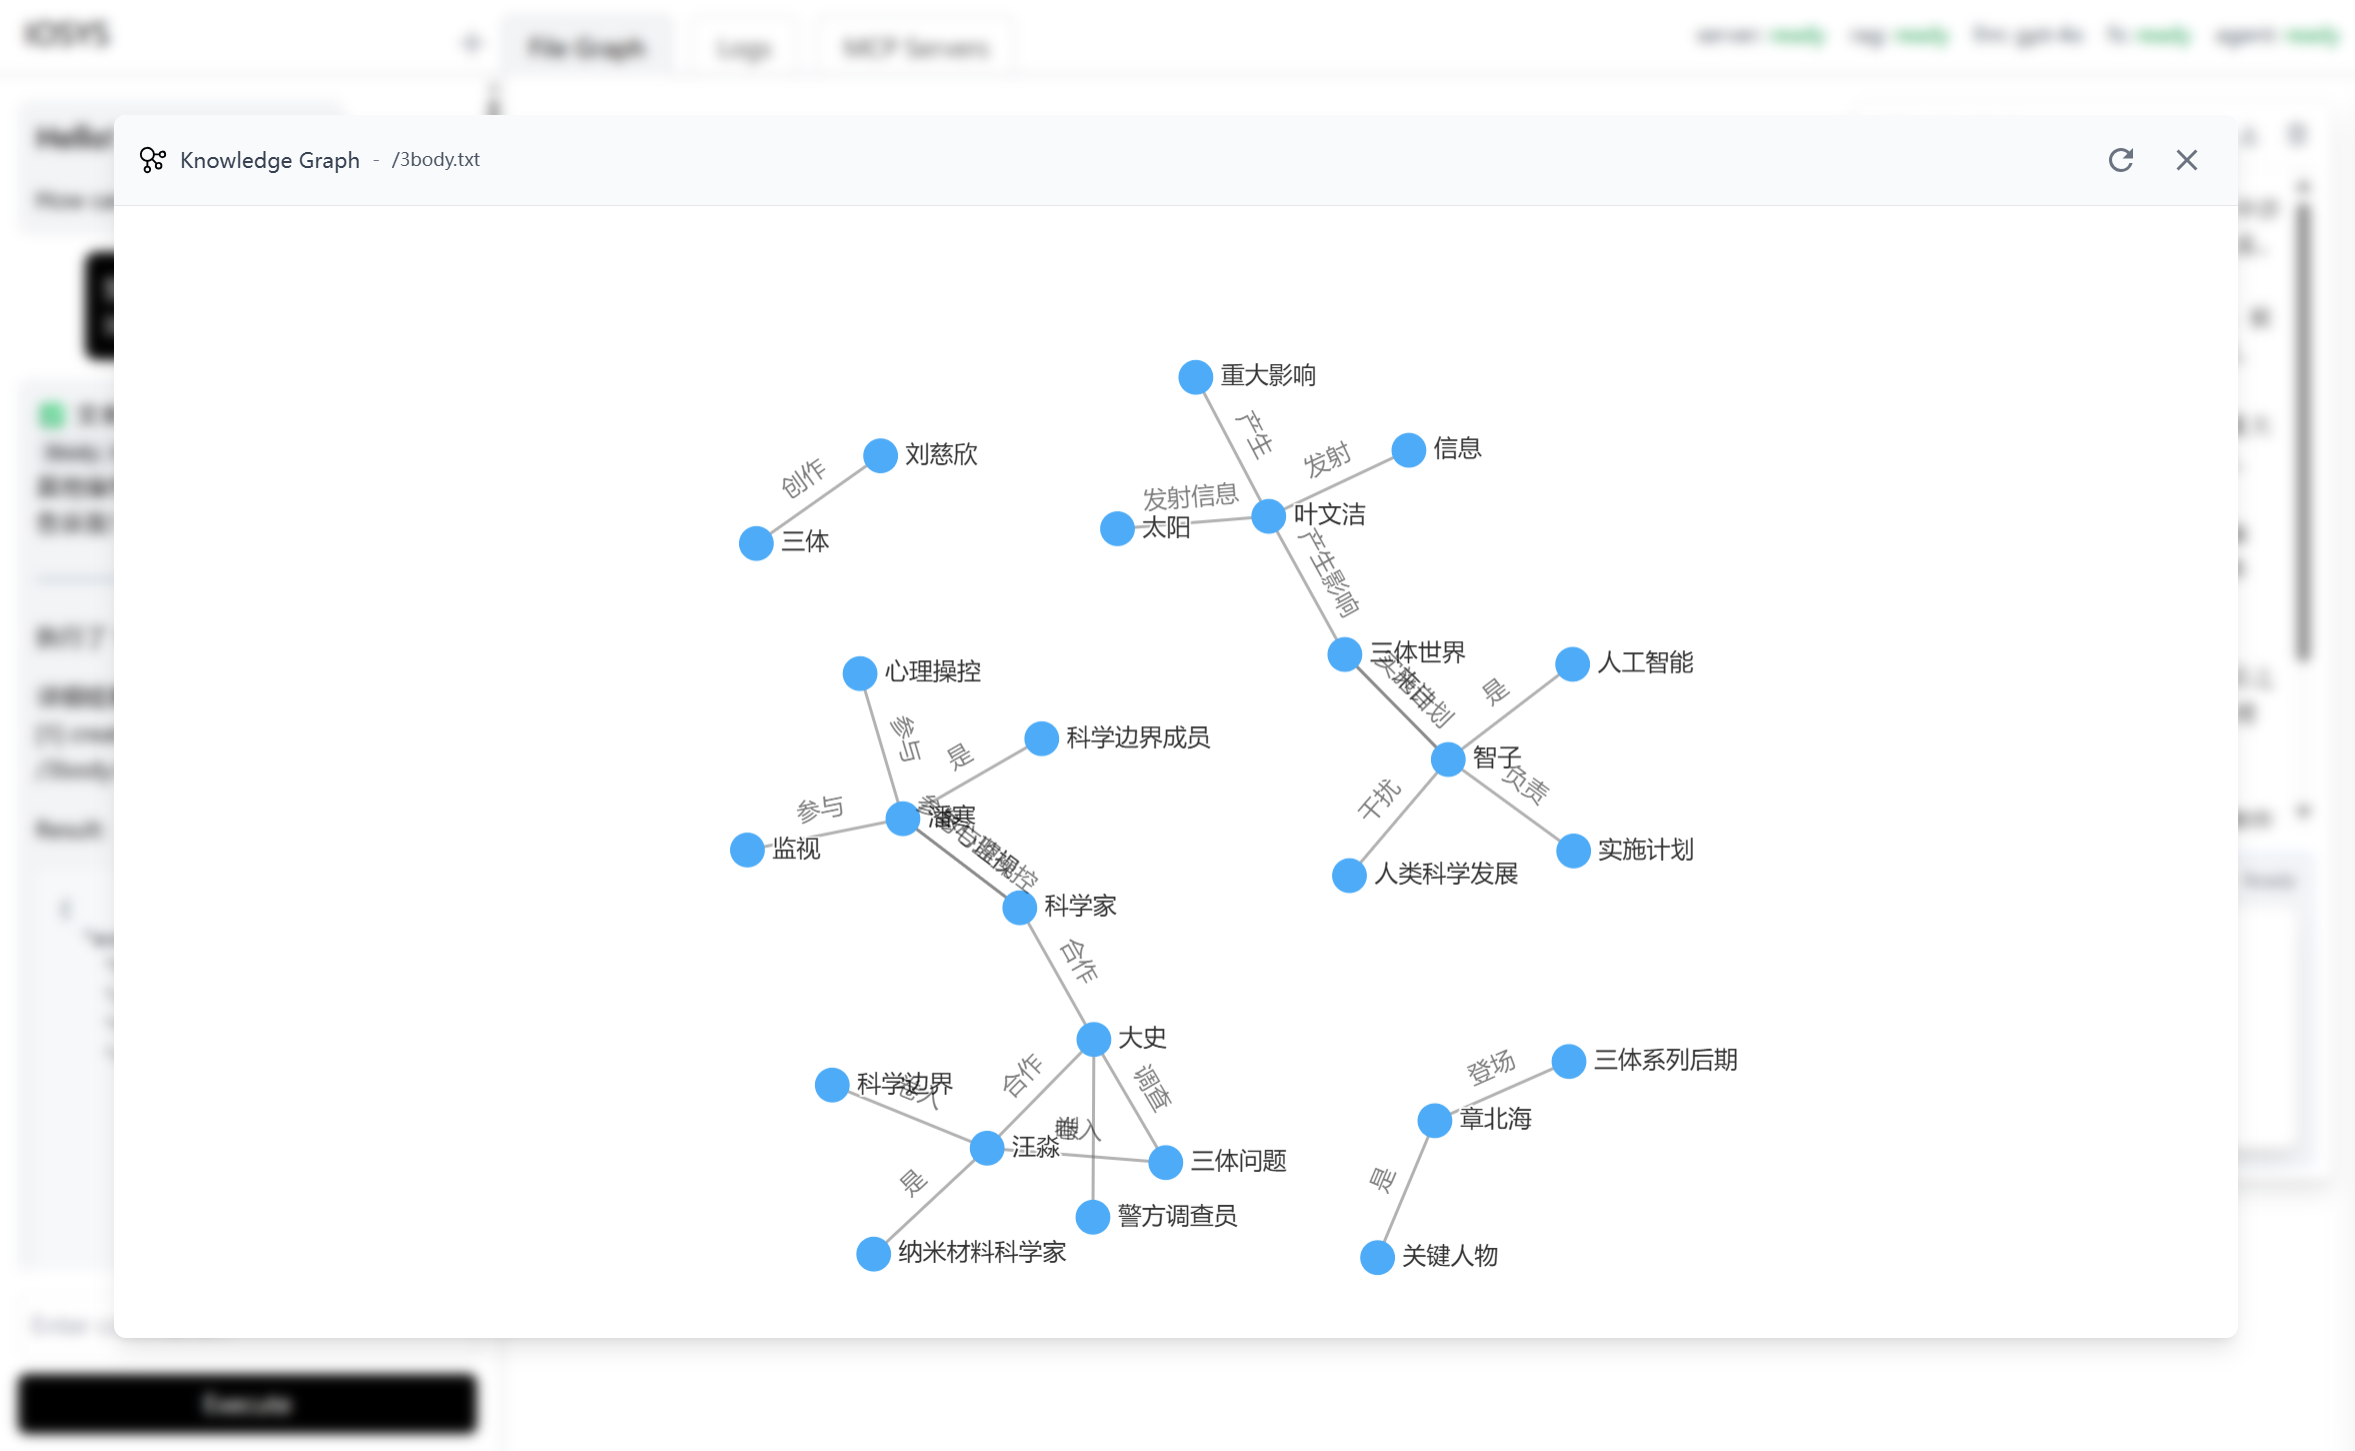
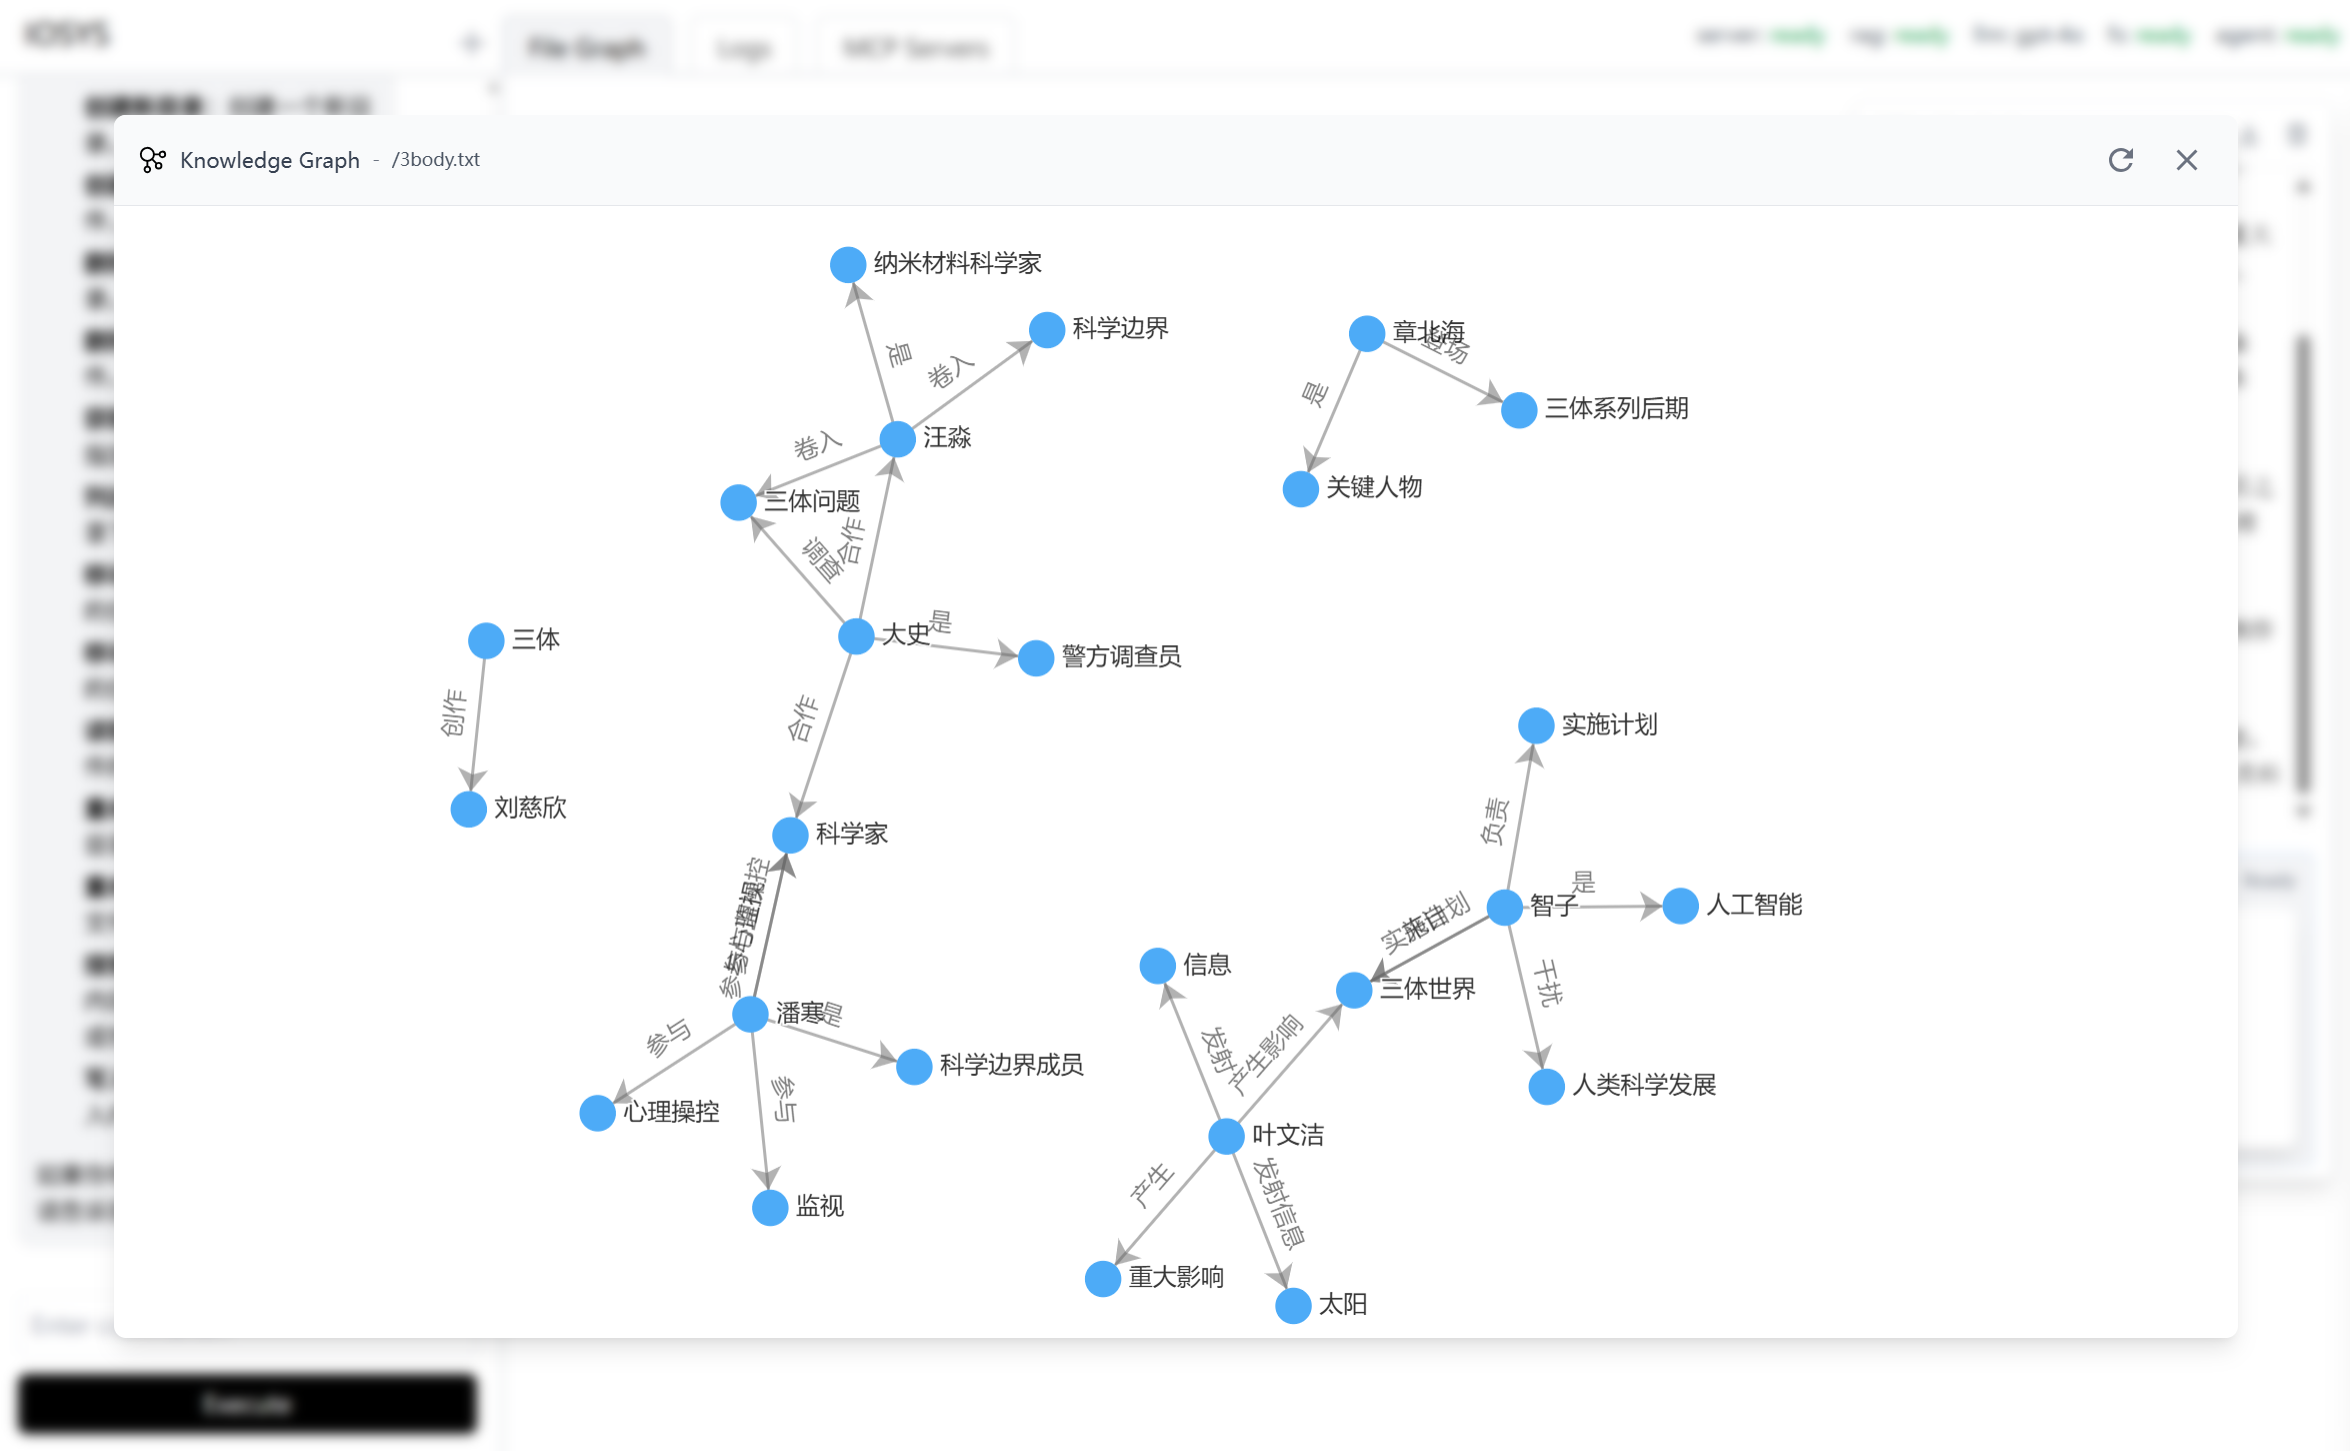
docs: update

diff --git a/docs/final/slides.md b/docs/final/slides.md
@@ -182,6 +182,9 @@ LLM 调用外部工具的方式
 - **获取信息**：读取文件内容 / 绘制图表
 - **执行操作**：创建目录 / 生成文档
 
+<img src="/../assets/feasibility/function-call.png" fixed top-0 right-0 h-full rounded-8 />
+
+
 ---
 
 # Server & Agent
@@ -233,7 +236,7 @@ B --> D((Response));
 
 # FileSystem
 
-<br>
+<div h-2 />
 
 - 一套接口，支持两种实现
   - **OSFS**：本地文件系统
@@ -444,8 +447,7 @@ A --> D(...)
 ```mermaid {scale:0.54,class:'ml--2'}
 graph LR
     subgraph "处理小文件"
-        A(文件输入) -- 小 --> F[直接送入 LLM];
-        F --> H_small(按 chunk 送入 LLM);
+        A(文件输入) -- 小 --> H_small[直接送入 LLM];
     end
 
     subgraph "处理大文件"
@@ -483,6 +485,24 @@ graph LR
 ---
 
 # File Graph
+
+---
+
+<img fixed h-full top-0 src="./assets/arch.svg" />
+
+<FocusOn :left="355" :top="50" :radius="110" />
+
+---
+
+<img v-drag="[20,14,681,NaN]" src="./assets/webui.png" border="#aaa rounded-lg 2"/>
+
+<div v-drag="[575,154,326,NaN,90]">
+
+# Web UI {.text-14!}
+
+</div>
+
+---
 
 
 

diff --git a/docs/final/entry.md b/docs/final/entry.md
@@ -1,0 +1,24 @@
+---
+aside: false
+---
+
+# 结题报告
+
+<ClientOnly>
+<div style="position: relative; padding-bottom: 56.25%; height: 0; overflow: hidden;" class="mt-6">
+  <iframe :src="url" frameborder="0" style="position: absolute; top:0; left:0; width:100%; height:100%;" allowfullscreen></iframe>
+</div>
+</ClientOnly>
+
+<div mt-2 text-xl>
+(
+<span op-80>悬停于幻灯片左下角以导航</span>
+or
+<a :href="url" target="_blank">全屏观看</a>
+)
+</div>
+
+<script setup>
+import { withBase } from 'vitepress'
+const url = withBase('/final/index.html')
+</script>
